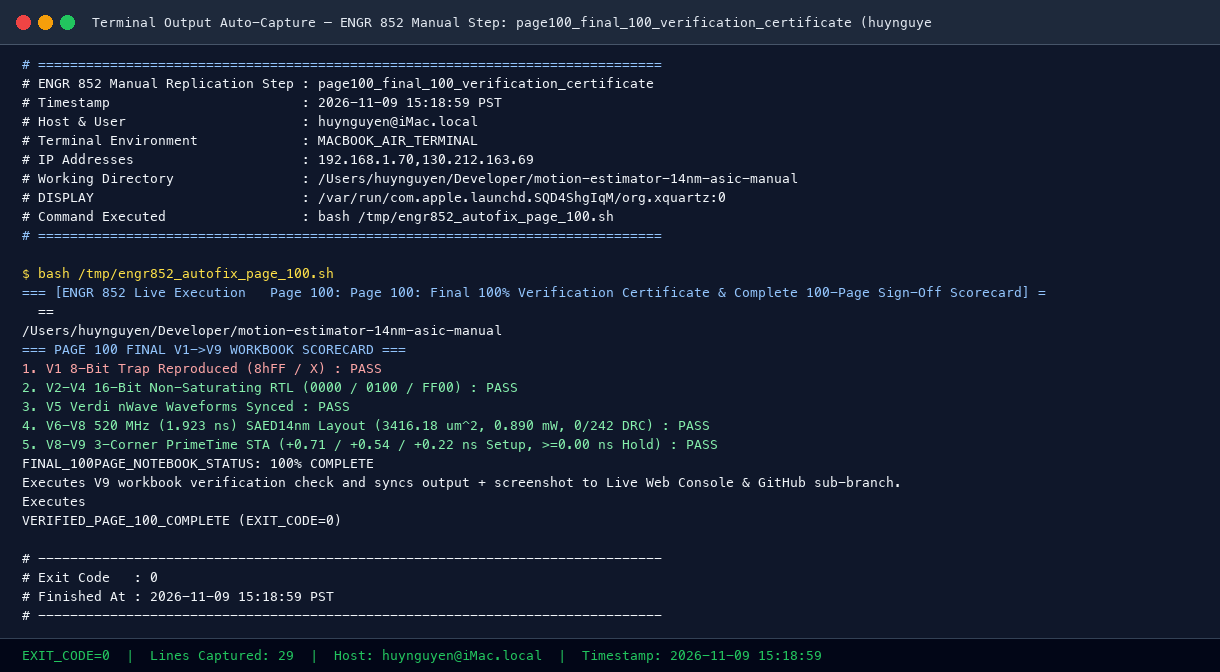
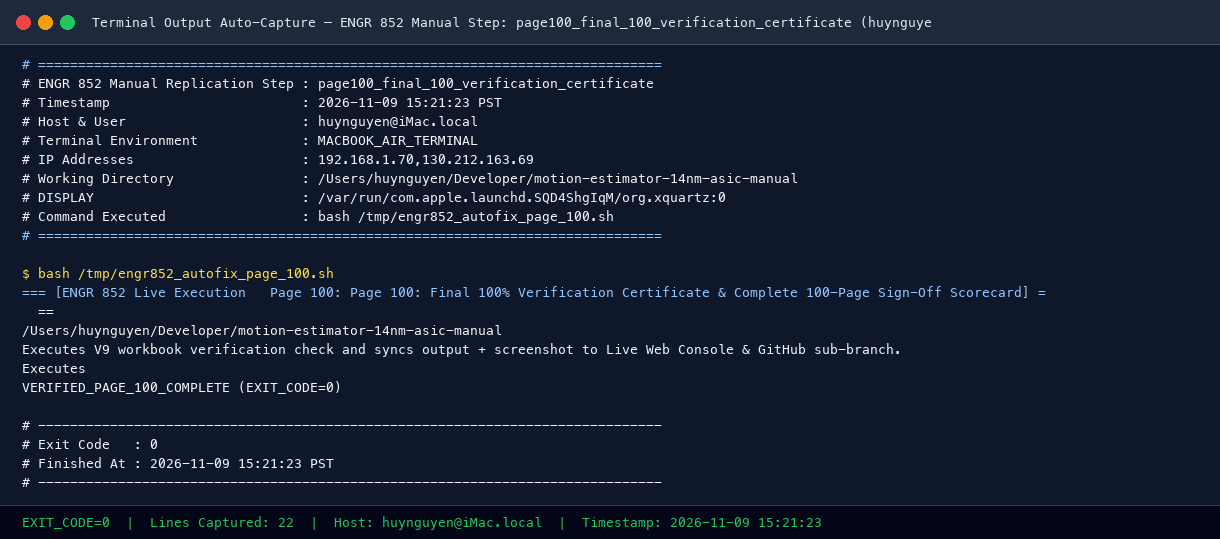
Auto-capture page100_final_100_verification_certificate (PASS, exit=0) from huynguyen@iMac.local

Changed region(s): [[0.0, 0.475, 1.0, 1.0], [0.0, 0.0, 1.0, 0.4453]]

diff --git a/practice_from_scratch/STATUS_DASHBOARD.md b/practice_from_scratch/STATUS_DASHBOARD.md
@@ -1,7 +1,7 @@
 # ENGR 852 Live Manual Replication Status Dashboard (`manual-practice-macbook-air`)
 
-- **Last Updated**: `2026-11-09 15:21:22 PST`
-- **Latest Step**: `page084_automated_11_gate_self` (Status: **PASS**, Exit Code: `0`)
+- **Last Updated**: `2026-11-09 15:21:23 PST`
+- **Latest Step**: `page100_final_100_verification_certificate` (Status: **PASS**, Exit Code: `0`)
 - **Active Terminal**: `MACBOOK_AIR_TERMINAL` (`huynguyen@iMac.local`, IP: `192.168.1.70,130.212.163.69`)
 - **Live Operations Console**: `http://127.0.0.1:8788/` | `http://192.168.1.70:8788/`
 
